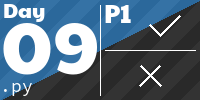
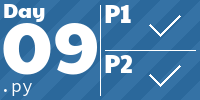
[2024/9] p2 solved

diff --git a/2024/9/script.py b/2024/9/script.py
@@ -1,34 +1,137 @@
 from GhostyUtils import aoc
+from dataclasses import dataclass
+
+
+@dataclass
+class Block:
+    id: str
+    size: int
 
 
 def expand_diskmap(diskmap: str) -> list:
     filesystem = []
-    for i, c in enumerate(diskmap):
-        if i % 2 == 0:  # even, file
-            filesystem.extend([i//2]*int(c))
+    for pos, length in enumerate(diskmap):
+        if pos % 2 == 0:  # even, file
+            filesystem.append(Block(pos//2, int(length)))
         else:  # odd, free space
-            filesystem.extend(['.']*int(c))
+            filesystem.append(Block('.', int(length)))
     return filesystem
 
 
 def print_filesystem(filesystem: list):
-    print(''.join(str(c) for c in filesystem))
+    print(''.join(str(block.id) * block.size for block in filesystem))
 
 
-def defrag(filesystem: list) -> list:
-    while '.' in filesystem:
-        f = filesystem.pop()
-        if f == '.':
-            continue
-        filesystem[filesystem.index('.')] = f
+def frag(filesystem: list) -> list:
+    if aoc.args().verbose or aoc.args().progress:
+        print("# frag")
+
+    new_fs = []
+    # grab a data block from the end of the filesystem
+    working_block = filesystem.pop()
+    free_block = Block('.', 0)
+
+    while filesystem:
+        # grab a block from the start of the filesystem
+        block = filesystem.pop(0)
+
+        # data block, just add it
+        if block.id != '.':
+            if block.size != 0:
+                new_fs.append(block)
+
+        # free space block
+        else:
+            # frag data blocks at the end of the filesystem to fill this free space
+            while block.size > 0:
+                # skip over free space blocks at the end of the filesystem
+                if working_block.id == '.':
+                    free_block.size += working_block.size
+                    working_block = filesystem.pop()
+
+                # take a chunk of data that will fit in this free space block
+                chunk = min(working_block.size, block.size)
+                new_fs.append(Block(working_block.id, chunk))
+                # reduce the size of the data block by the size of the chunk we took
+                working_block.size -= chunk
+                # reduce the size of this free space block
+                block.size -= chunk
+                # increase the size of the free space block at the end of the filesystem
+                free_block.size += chunk
+                # grab a new data block if we used up the current one
+                if working_block.size <= 0:
+                    working_block = filesystem.pop()
 
         if aoc.args().verbose:
-            print_filesystem(filesystem)
-    return filesystem
+            print_filesystem(new_fs + filesystem + [working_block, free_block])
+
+    # add any leftover chunks of blocks
+    if block.id != '.' and block.size > 0:
+        new_fs.append(block)
+    if working_block.id != '.' and working_block.size > 0:
+        new_fs.append(working_block)
+
+    # add all the free space back at the end of the filesystem
+    new_fs.append(free_block)
+
+    return new_fs
+
+
+def compact(filesystem: list) -> list:
+    if aoc.args().verbose or aoc.args().progress:
+        print("# compact")
+
+    new_fs = filesystem.copy()
+
+    if aoc.args().verbose:
+        print_filesystem(new_fs)
+
+    for block in reversed(filesystem):
+        if block.id == '.':
+            continue
+        cur_index = new_fs.index(block)
+
+        # find a large enough block of free space left of the current block
+        for index, check_block in enumerate(new_fs[:cur_index]):
+            # skip files and blocks of free space that aren't large enough
+            if check_block.id != '.' or check_block.size < block.size:
+                continue
+
+            # reduce the free space block by the size of the block we're moving
+            new_fs[index].size -= block.size
+            # insert a free space block where the block we're moving came from
+            #  note: I was surprised this worked, I thought I'd have to merge
+            #        the new free space with any free space around it;
+            #        each block only getting one shot at a right-to-left move
+            #        means it doesn't come up
+            new_fs.insert(cur_index, Block('.', block.size))
+            # remove the block we're moving from its old position
+            new_fs.remove(block)
+            # insert the block we're moving at its new position
+            new_fs.insert(index, block)
+
+            if aoc.args().verbose:
+                print_filesystem(new_fs)
+
+            break
+
+    return new_fs
 
 
 def checksum(filesystem: list) -> int:
-    return sum(pos * id for pos, id in enumerate(filesystem))
+    pos = 0
+    total = 0
+    for block in filesystem:
+        # skip over free space
+        if block.id == '.':
+            pos += block.size
+            continue
+
+        for i in range(block.size):
+            total += (pos + i) * int(block.id)
+        pos += block.size
+
+    return total
 
 
 def main():
@@ -36,11 +139,19 @@ def main():
 
     filesystem = expand_diskmap(diskmap)
 
-    if aoc.args().verbose:
+    if aoc.args().progress:
         print_filesystem(filesystem)
 
-    fs = defrag(filesystem)
+    fs = frag(filesystem)
+    if aoc.args().progress:
+        print_filesystem(fs)
     print(f"p1: {checksum(fs)}")
+
+    filesystem = expand_diskmap(diskmap)
+    fs = compact(filesystem)
+    if aoc.args().progress:
+        print_filesystem(fs)
+    print(f"p2: {checksum(fs)}")
 
 
 if __name__ == "__main__":

diff --git a/README.md b/README.md
@@ -3,10 +3,10 @@ My solutions to the yearly Advents of Code
 
 <!-- AOC TILES BEGIN -->
 <h1 align="center">
-  Advent of Code - 178/468 ⭐
+  Advent of Code - 179/468 ⭐
 </h1>
 <h1 align="center">
-  2024 - 17 ⭐ - Python
+  2024 - 18 ⭐ - Python
 </h1>
 <a href="2024/1/script.py">
   <img src=".aoc_tiles/tiles/2024/01.png" width="161px">
